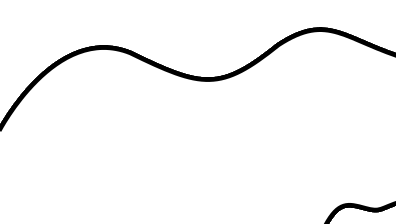
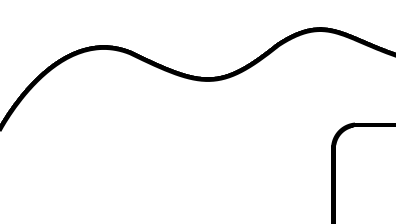
add KikooDX + Times without F6

Changed region(s): [[0.8182, 0.5312, 1.0, 1.0]]

diff --git a/time.py b/time.py
@@ -2,6 +2,9 @@ gold = 1.2
 argent = 1.5
 bronze = 2
 
+x = 340
+y = 140
+
 timeslevel = open("times.lvl","r+")
 dest = open("generated/times.c","w")
 lvm = open("generated/include/define.h","r")
@@ -44,18 +47,15 @@ if(frame_level/FPS < (unsigned int)(time*"+str(bronze)+") || (frame_level/FPS <=
 \n\
 void draw_time(int id_level)\n\
 {\n\
-dclear(C_WHITE);\n\
 float time=1.0;\n")
 
 dest.write("\ntime = level_time[id_level-1];\n\n\
-dsubimage(172,90,&img_medals,36,0,12,12,DIMAGE_NONE);\n\
-dprint(187,90,C_BLACK,\"%.2j\",(int)(time*100));\n\
-dsubimage(172,110,&img_medals,24,0,12,12,DIMAGE_NONE);\n\
-dprint(187,110,C_BLACK,\"%.2j\",(int)(time*"+str(gold)+"*100));\n\
-dsubimage(172,130,&img_medals,12,0,12,12,DIMAGE_NONE); \n\
-dprint(187,130,C_BLACK,\"%.2j\",(int)(time*"+str(argent)+"*100));\n\
-dsubimage(172,150,&img_medals,0,0,12,12,DIMAGE_NONE); \n\
-dprint(187,150,C_BLACK,\"%.2j\",(int)(time*"+str(bronze)+"*100));\n\
-dupdate();\n\
-getkey();\n\
+dsubimage("+str(x)+","+str(y)+",&img_medals,36,0,12,12,DIMAGE_NONE);\n\
+dprint("+str(x+15)+","+str(y)+",C_BLACK,\"%.2j\",(int)(time*100));\n\
+dsubimage("+str(x)+","+str(y+20)+",&img_medals,24,0,12,12,DIMAGE_NONE);\n\
+dprint("+str(x+15)+","+str(y+20)+",C_BLACK,\"%.2j\",(int)(time*"+str(gold)+"*100));\n\
+dsubimage("+str(x)+","+str(y+40)+",&img_medals,12,0,12,12,DIMAGE_NONE); \n\
+dprint("+str(x+15)+","+str(y+40)+",C_BLACK,\"%.2j\",(int)(time*"+str(argent)+"*100));\n\
+dsubimage("+str(x)+","+str(y+60)+",&img_medals,0,0,12,12,DIMAGE_NONE); \n\
+dprint("+str(x+15)+","+str(y+60)+",C_BLACK,\"%.2j\",(int)(time*"+str(bronze)+"*100));\n\
 }")

diff --git a/src/menu.c b/src/menu.c
@@ -86,14 +86,15 @@ char level_selection(int *id_level)
 		dimage(0, 0, &img_speedrun);
 		if (sto != 0)
 			check_medal(round(sto * 0.01 * FPS), *id_level, 335, 8);
-		dtext(340, 214, C_BLACK, "TIMES");
 		dtext(190, 45, C_BLACK, "Time : ");
 		dprint(80, 20, C_BLACK, "Level : %d", *id_level);
 		if (sto != 0)
 			dprint(194, 60, C_RED, "%.2j", sto);
 		else
 			dprint(202, 60, C_RED, "/");
+		draw_time(*id_level);
 		dupdate();
+		
 		if (keydown_any(KEY_SHIFT, KEY_EXE, 0)) {
 			if (!check) {
 				del_level(level);
@@ -101,10 +102,6 @@ char level_selection(int *id_level)
 			}
 		} else
 			check = 0;
-
-		if (keydown(KEY_F6)) {
-			draw_time(*id_level);
-		}
 
 		if (keydown_any(KEY_EXIT, KEY_MENU, 0)) {
 			if (!buffer)

diff --git a/src/main.c b/src/main.c
@@ -51,6 +51,7 @@ static void startmenu_launcher() {
 					game(&id_level, 1, &type);
 			} break;
 			case MenuAllMode: {
+				id_level = 1;
 				game(&id_level, 0, &type);
 			} break;
 			case MenuTutorial: {
